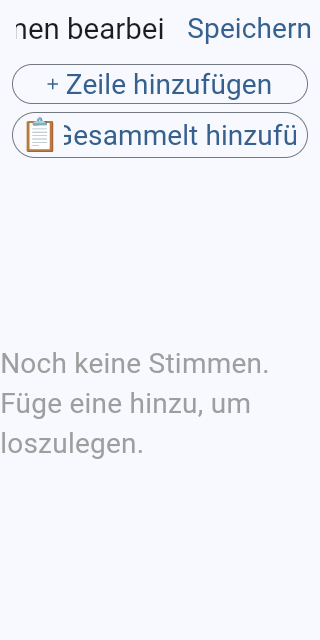
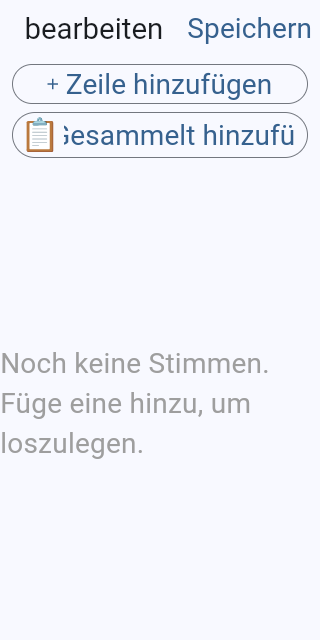
test(voice-editor): capture both text scales

Changed region(s): [[0.1875, 0.1875, 0.9375, 0.25], [0.0312, 0.0312, 0.5312, 0.0625]]

diff --git a/tool/qa/voice_editor_actions_capture.py b/tool/qa/voice_editor_actions_capture.py
@@ -3,8 +3,19 @@ from pathlib import Path
 from playwright.sync_api import sync_playwright
 
 ROOT = Path(__file__).resolve().parents[2]
-OUTPUT = ROOT / "docs/qa/voice_editor_actions/voice-editor-actions-de-320x640-scale2-light.png"
-URL = "http://127.0.0.1:8874/?scale=2&theme=light"
+CAPTURES = (
+    (
+        1,
+        ROOT
+        / "docs/qa/voice_editor_actions/voice-editor-actions-de-320x640-scale1-light.png",
+    ),
+    (
+        2,
+        ROOT
+        / "docs/qa/voice_editor_actions/voice-editor-actions-de-320x640-scale2-light.png",
+    ),
+)
+BASE_URL = "http://127.0.0.1:8874/?theme=light"
 
 with sync_playwright() as playwright:
     browser = playwright.chromium.launch(
@@ -19,21 +30,23 @@ with sync_playwright() as playwright:
     page = context.new_page()
     errors = []
     page.on("pageerror", lambda error: errors.append(str(error)))
-    page.goto(URL, wait_until="load")
-    page.wait_for_timeout(8_000)
-    page.screenshot(path=str(OUTPUT))
-    print(
-        {
-            "viewport_css_px": page.viewport_size,
-            "device_pixel_ratio": page.evaluate("devicePixelRatio"),
-            "locale": "de_DE",
-            "theme": "light",
-            "text_scale": 2,
-            "focus": "none",
-            "keyboard": "closed",
-            "page_errors": errors,
-        }
-    )
+    for scale, output in CAPTURES:
+        page.goto(f"{BASE_URL}&scale={scale}", wait_until="load")
+        page.wait_for_timeout(8_000)
+        page.screenshot(path=str(output))
+        print(
+            {
+                "output": str(output.relative_to(ROOT)),
+                "viewport_css_px": page.viewport_size,
+                "device_pixel_ratio": page.evaluate("devicePixelRatio"),
+                "locale": "de_DE",
+                "theme": "light",
+                "text_scale": scale,
+                "focus": "none",
+                "keyboard": "closed",
+                "page_errors": errors,
+            }
+        )
     browser.close()
 
 if errors:

diff --git a/docs/qa/voice_editor_actions/README.md b/docs/qa/voice_editor_actions/README.md
@@ -5,12 +5,20 @@ viewports and when text scaling needs additional room. The wide layout retains
 the existing inline arrangement. Button callbacks, native voice fields, and
 label semantics remain unchanged.
 
-- ![German voice editor actions at 320 × 640, 1× device scale, 2× text scale, light theme](voice-editor-actions-de-320x640-scale2-light.png)
+- Primary capture: German voice editor actions at 320 × 640, 1× device scale,
+  normal 1× text scale, and light theme.
+
+  ![Voice editor actions at normal text scale](voice-editor-actions-de-320x640-scale1-light.png)
+
+- Supplemental capture: the same viewport and page with 2× text scale.
+
+  ![Voice editor actions at 2× text scale](voice-editor-actions-de-320x640-scale2-light.png)
 
 This is a genuine Flutter Web capture of `VoiceEditorPage` using an empty local
-voice list. The state is German (`de_DE`), light theme, no focused control, and
-keyboard closed. No provider calls or voice synthesis are made. Start the app
-with:
+voice list. Both captures use German (`de_DE`), light theme, no focused
+control, and keyboard closed. The primary capture uses normal 1× text scale;
+the supplemental capture uses 2× text scale. No provider calls or voice
+synthesis are made. Start the app with:
 
 ```sh
 flutter run --no-pub -d web-server --web-hostname 127.0.0.1 --web-port 8874 --target tool/qa/voice_editor_actions_capture.dart
@@ -21,3 +29,6 @@ Then capture the screen with:
 ```sh
 python3 tool/qa/voice_editor_actions_capture.py
 ```
+
+The capture script saves both scales at 320 × 640 CSS pixels with a 1× device
+pixel ratio.
